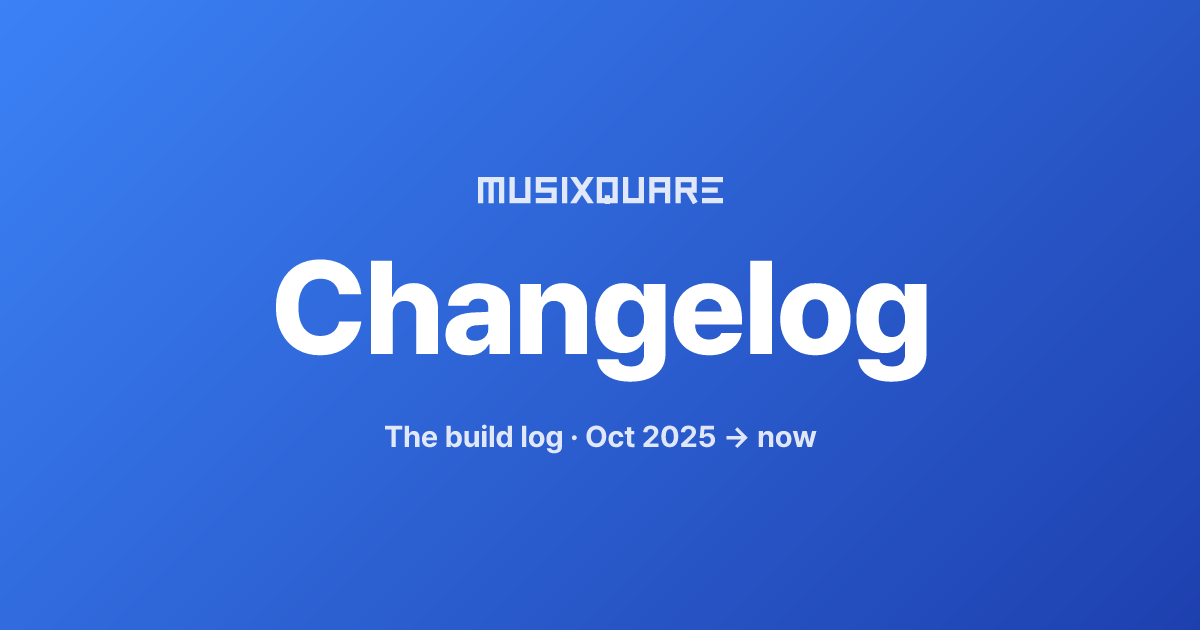
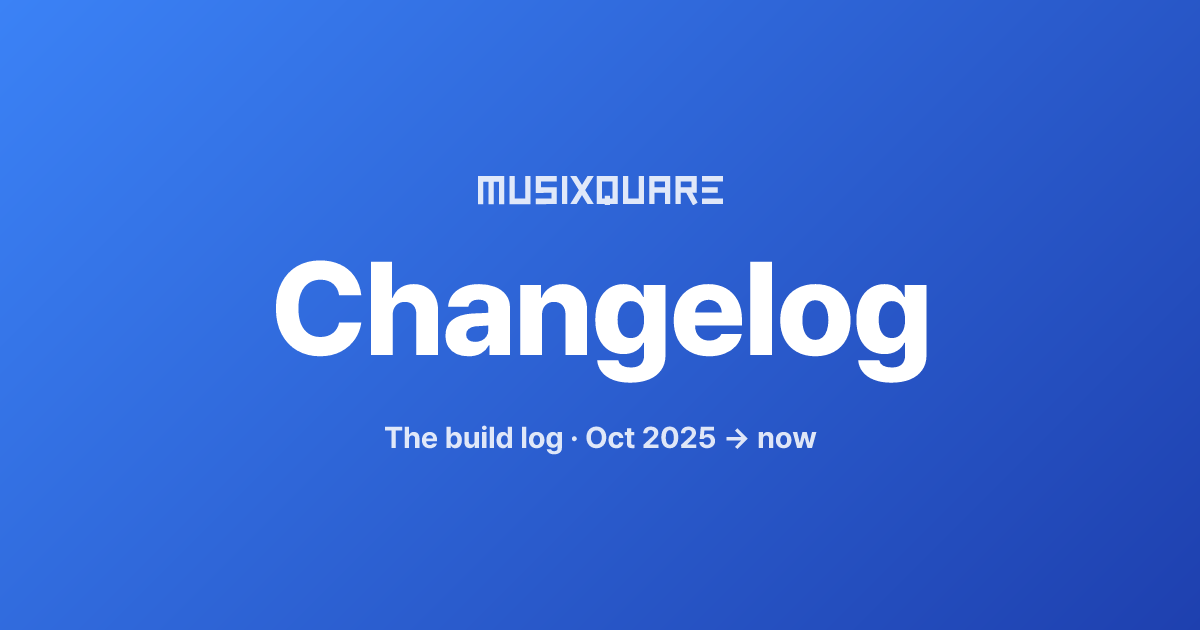
fix(wordmark): expand viewBox to 26 so the Q descender stops clipping
The wordmark SVG's viewBox was "43 12 214 24" — height 24. The Q
character's descender tail reaches y≈38 (12 + 26), so anything
rendering the mark at that viewBox lost the tail. Visible on every
Satori-generated OG card (og-roadmap / og-changelog / og-designsystem
/ the dynamic invite card) where the wordmark sat inside a container
sized for the old 8.92:1 aspect.

Source fix:
  public/designsystem/assets/logo-wordmark.svg: viewBox height 24 → 26.

Container sizing (preserve visual M-letter weight at new 8.23:1 aspect):
  - invite-og.ts   <img> 712×80 → 712×87
  - generate-static-og.mjs eyebrow 250×28 → 250×30
  - smoke-og-render.mjs kept in lockstep so local renders match edge.

Inline copies of the wordmark in the static hero SVGs
(roadmap/changelog/designsystem index.html, each had their own inline
viewBox="43 12 214 25" — one unit short too) bumped to 26 in the same
pass so the hero logos no longer clip either.

Regenerated public/og-{roadmap,changelog,designsystem}.png with the
new aspect; they're the committed artifacts, no runtime generation.

Main homepage og-image.png is untouched — it's a hand-designed asset
and its wordmark rasterization was fine.

diff --git a/public/changelog/index.html b/public/changelog/index.html
@@ -139,7 +139,7 @@
 <!-- ── HERO ───────────────────────────────────── -->
 <section class="hero">
   <div class="logo">
-    <svg viewBox="43 12 214 25" fill="currentColor">
+    <svg viewBox="43 12 214 26" fill="currentColor">
       <polygon points="45.4679049 17.3182774 45.4732381 35.3182767 49.9732379 35.3169433 49.9679047 17.3169441 54.4679045 17.3156108 54.4732377 35.31561 58.9732375 35.3142767 58.9679043 17.3142775 63.4679041 17.3129442 63.4732373 35.3129434 67.9732371 35.3116101 67.9679039 17.3116109 67.9665706 12.8116111 45.4665715 12.8182776 45.4679049 17.3182774"/>
       <polygon points="85.971903 30.806277 76.9719034 30.8089436 76.9665702 12.8089444 72.4665704 12.8102778 72.4719036 30.810277 72.4732369 35.3102768 90.4732361 35.3049435 90.4719028 30.8049437 90.4665696 12.8049445 85.9665698 12.8062778 85.971903 30.806277"/>
       <polygon points="94.9679027 17.303611 94.969236 21.8036108 94.9705693 26.3036106 108.4705687 26.2996106 108.471902 30.7996104 94.9719026 30.8036104 94.9732359 35.3036102 112.9732352 35.2982769 112.9719018 30.7982771 112.9705685 26.2982773 112.9692352 21.7982775 99.4692358 21.8022775 99.4679025 17.3022777 112.9679019 17.2982777 112.9665686 12.7982779 94.9665694 12.8036112 94.9679027 17.303611"/>

diff --git a/public/designsystem/index.html b/public/designsystem/index.html
@@ -323,7 +323,7 @@
 <!-- ── HERO ───────────────────────────────────── -->
 <section class="hero">
   <div class="logo">
-    <svg viewBox="43 12 214 25" fill="currentColor">
+    <svg viewBox="43 12 214 26" fill="currentColor">
       <polygon points="45.4679049 17.3182774 45.4732381 35.3182767 49.9732379 35.3169433 49.9679047 17.3169441 54.4679045 17.3156108 54.4732377 35.31561 58.9732375 35.3142767 58.9679043 17.3142775 63.4679041 17.3129442 63.4732373 35.3129434 67.9732371 35.3116101 67.9679039 17.3116109 67.9665706 12.8116111 45.4665715 12.8182776 45.4679049 17.3182774"/>
       <polygon points="85.971903 30.806277 76.9719034 30.8089436 76.9665702 12.8089444 72.4665704 12.8102778 72.4719036 30.810277 72.4732369 35.3102768 90.4732361 35.3049435 90.4719028 30.8049437 90.4665696 12.8049445 85.9665698 12.8062778 85.971903 30.806277"/>
       <polygon points="94.9679027 17.303611 94.969236 21.8036108 94.9705693 26.3036106 108.4705687 26.2996106 108.471902 30.7996104 94.9719026 30.8036104 94.9732359 35.3036102 112.9732352 35.2982769 112.9719018 30.7982771 112.9705685 26.2982773 112.9692352 21.7982775 99.4692358 21.8022775 99.4679025 17.3022777 112.9679019 17.2982777 112.9665686 12.7982779 94.9665694 12.8036112 94.9679027 17.303611"/>

diff --git a/public/roadmap/index.html b/public/roadmap/index.html
@@ -182,7 +182,7 @@
 <!-- ── HERO ───────────────────────────────────── -->
 <section class="hero">
   <div class="logo">
-    <svg viewBox="43 12 214 25" fill="currentColor">
+    <svg viewBox="43 12 214 26" fill="currentColor">
       <polygon points="45.4679049 17.3182774 45.4732381 35.3182767 49.9732379 35.3169433 49.9679047 17.3169441 54.4679045 17.3156108 54.4732377 35.31561 58.9732375 35.3142767 58.9679043 17.3142775 63.4679041 17.3129442 63.4732373 35.3129434 67.9732371 35.3116101 67.9679039 17.3116109 67.9665706 12.8116111 45.4665715 12.8182776 45.4679049 17.3182774"/>
       <polygon points="85.971903 30.806277 76.9719034 30.8089436 76.9665702 12.8089444 72.4665704 12.8102778 72.4719036 30.810277 72.4732369 35.3102768 90.4732361 35.3049435 90.4719028 30.8049437 90.4665696 12.8049445 85.9665698 12.8062778 85.971903 30.806277"/>
       <polygon points="94.9679027 17.303611 94.969236 21.8036108 94.9705693 26.3036106 108.4705687 26.2996106 108.471902 30.7996104 94.9719026 30.8036104 94.9732359 35.3036102 112.9732352 35.2982769 112.9719018 30.7982771 112.9705685 26.2982773 112.9692352 21.7982775 99.4692358 21.8022775 99.4679025 17.3022777 112.9679019 17.2982777 112.9665686 12.7982779 94.9665694 12.8036112 94.9679027 17.303611"/>

diff --git a/netlify/edge-functions/invite-og.ts b/netlify/edge-functions/invite-og.ts
@@ -108,11 +108,12 @@ function buildCard({ code }: CardProps): unknown {
         {
           type: "img",
           props: {
-            // Brand wordmark SVG (white fill). Width/height mirror the
-            // previous 88px ExtraBold text weight at the card's aspect.
+            // Brand wordmark SVG (white fill). Height 87 follows the
+            // 8.23:1 aspect of viewBox (43 12 214 26) — the Q's
+            // descender tail would clip at the prior 80 height.
             src: wordmarkDataUrl,
             width: 712,
-            height: 80,
+            height: 87,
             style: { marginTop: 16 },
           },
         },
